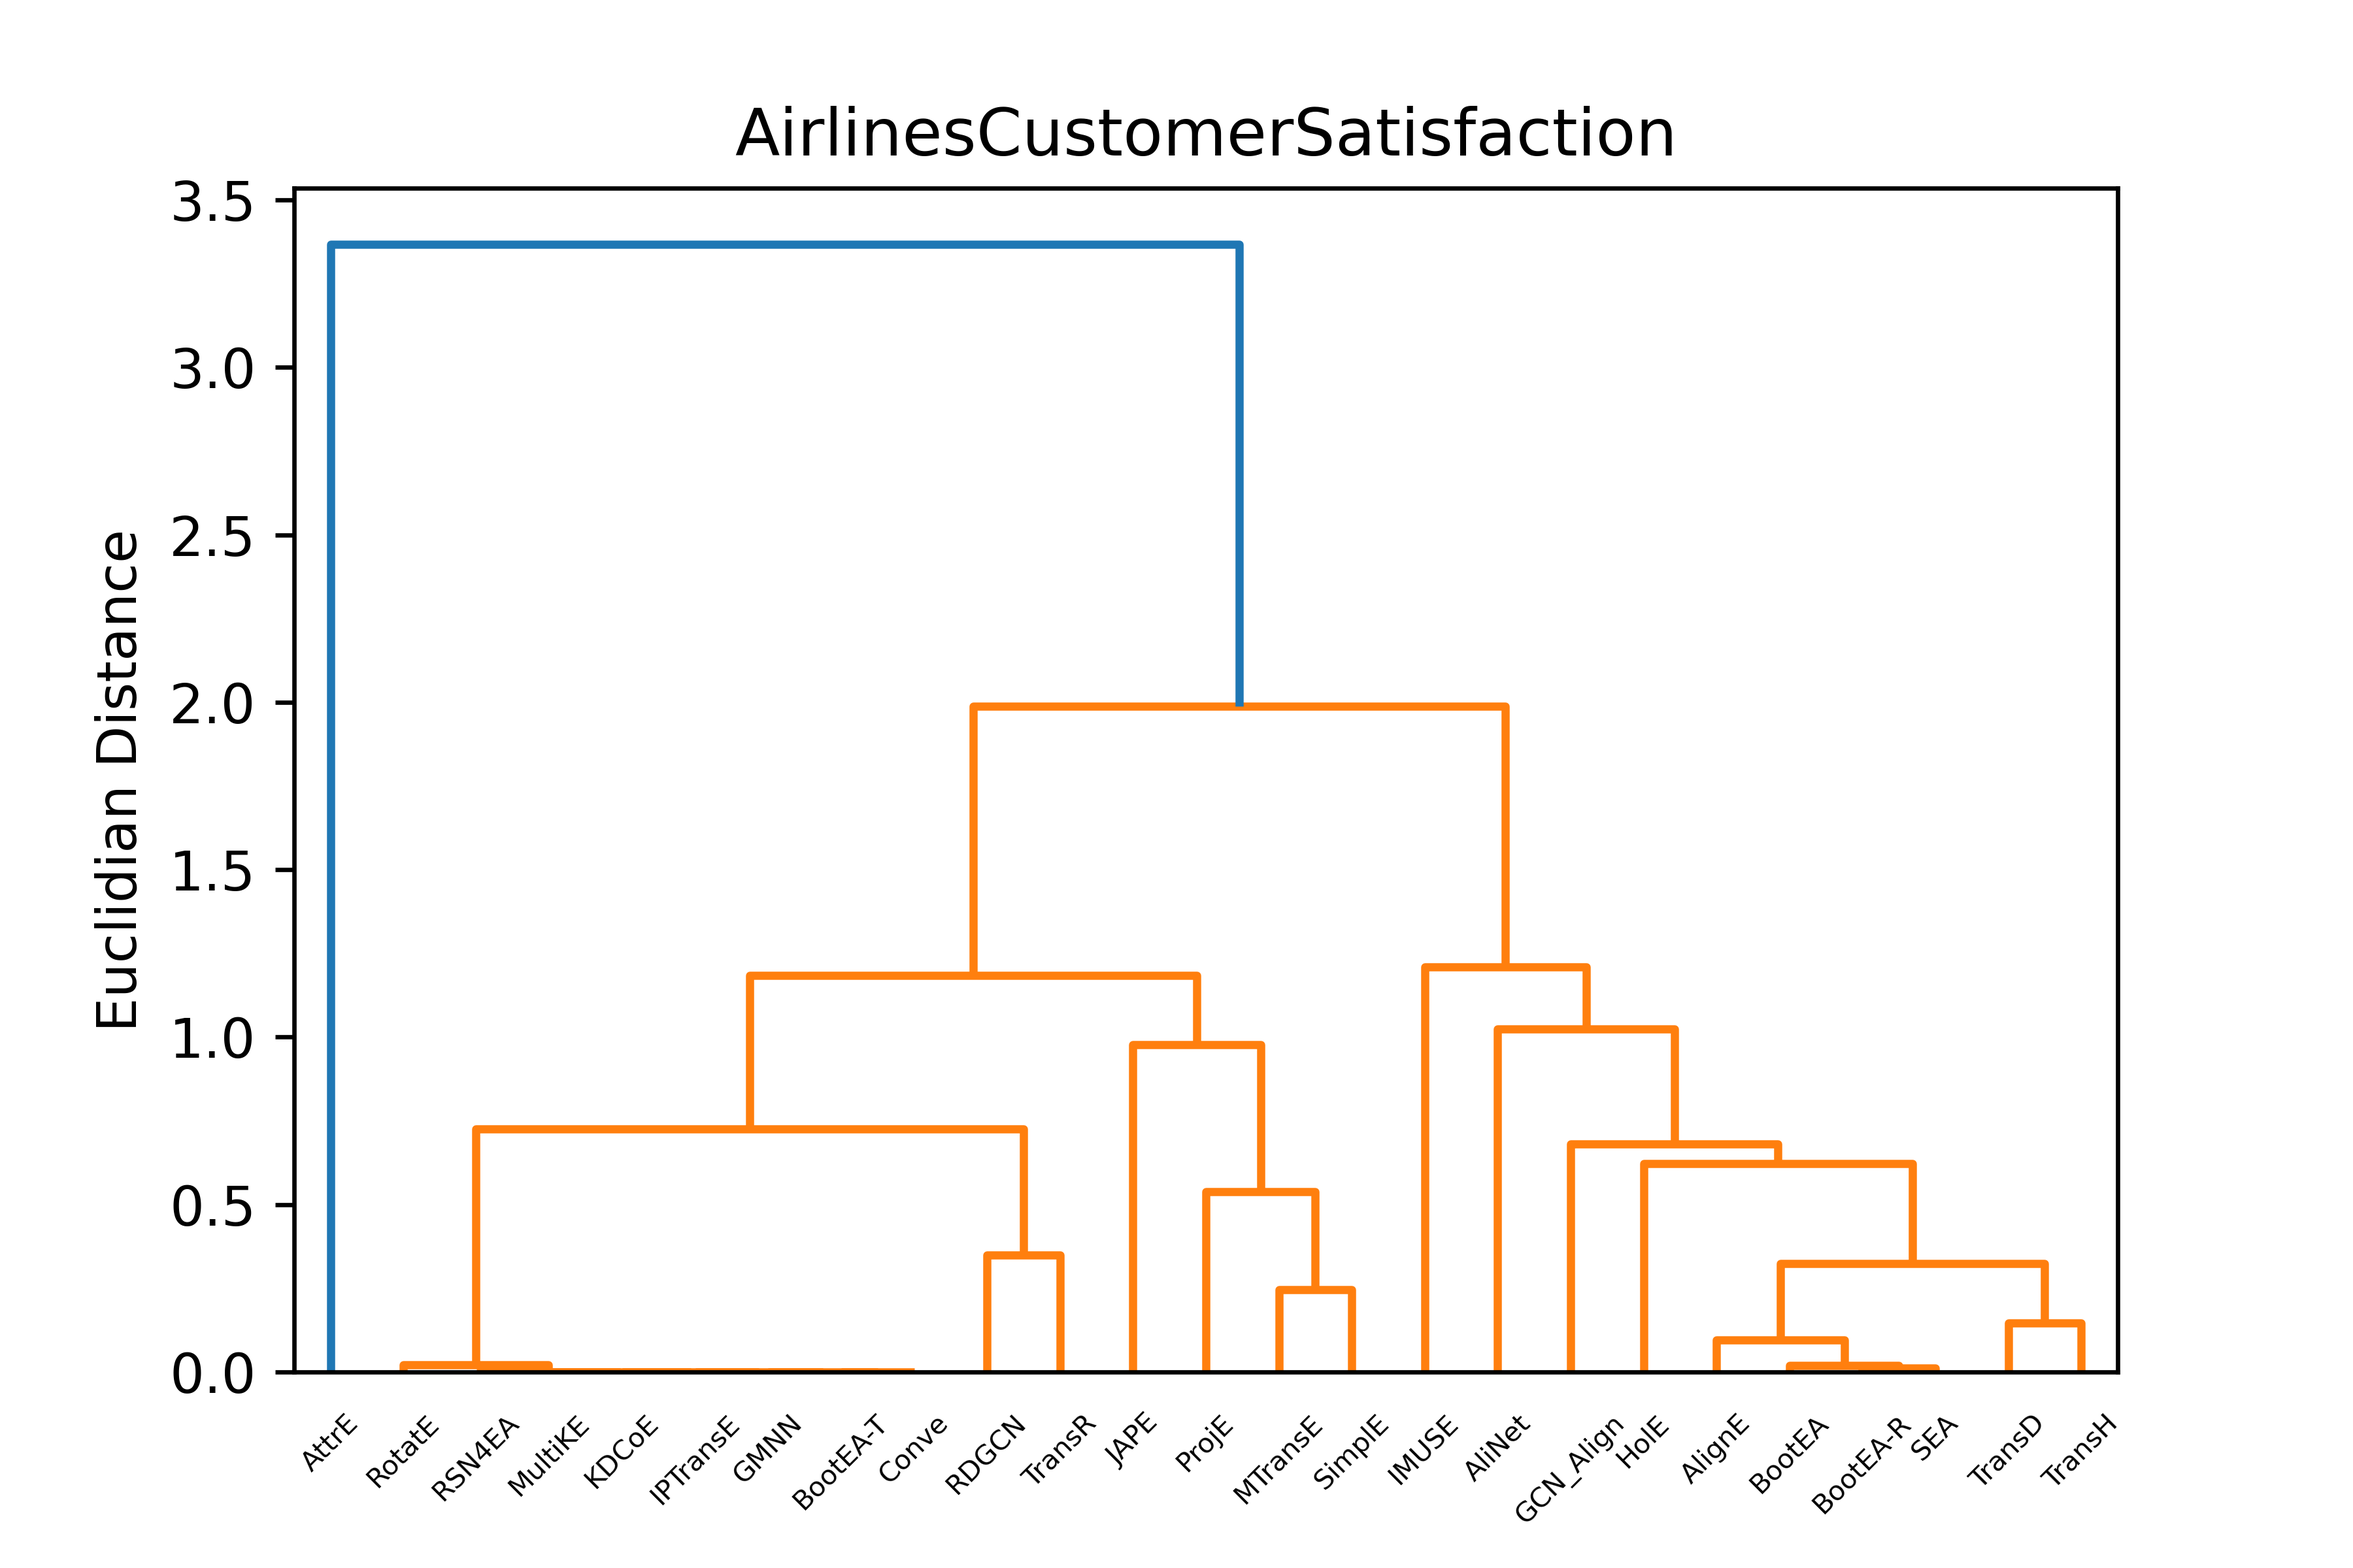
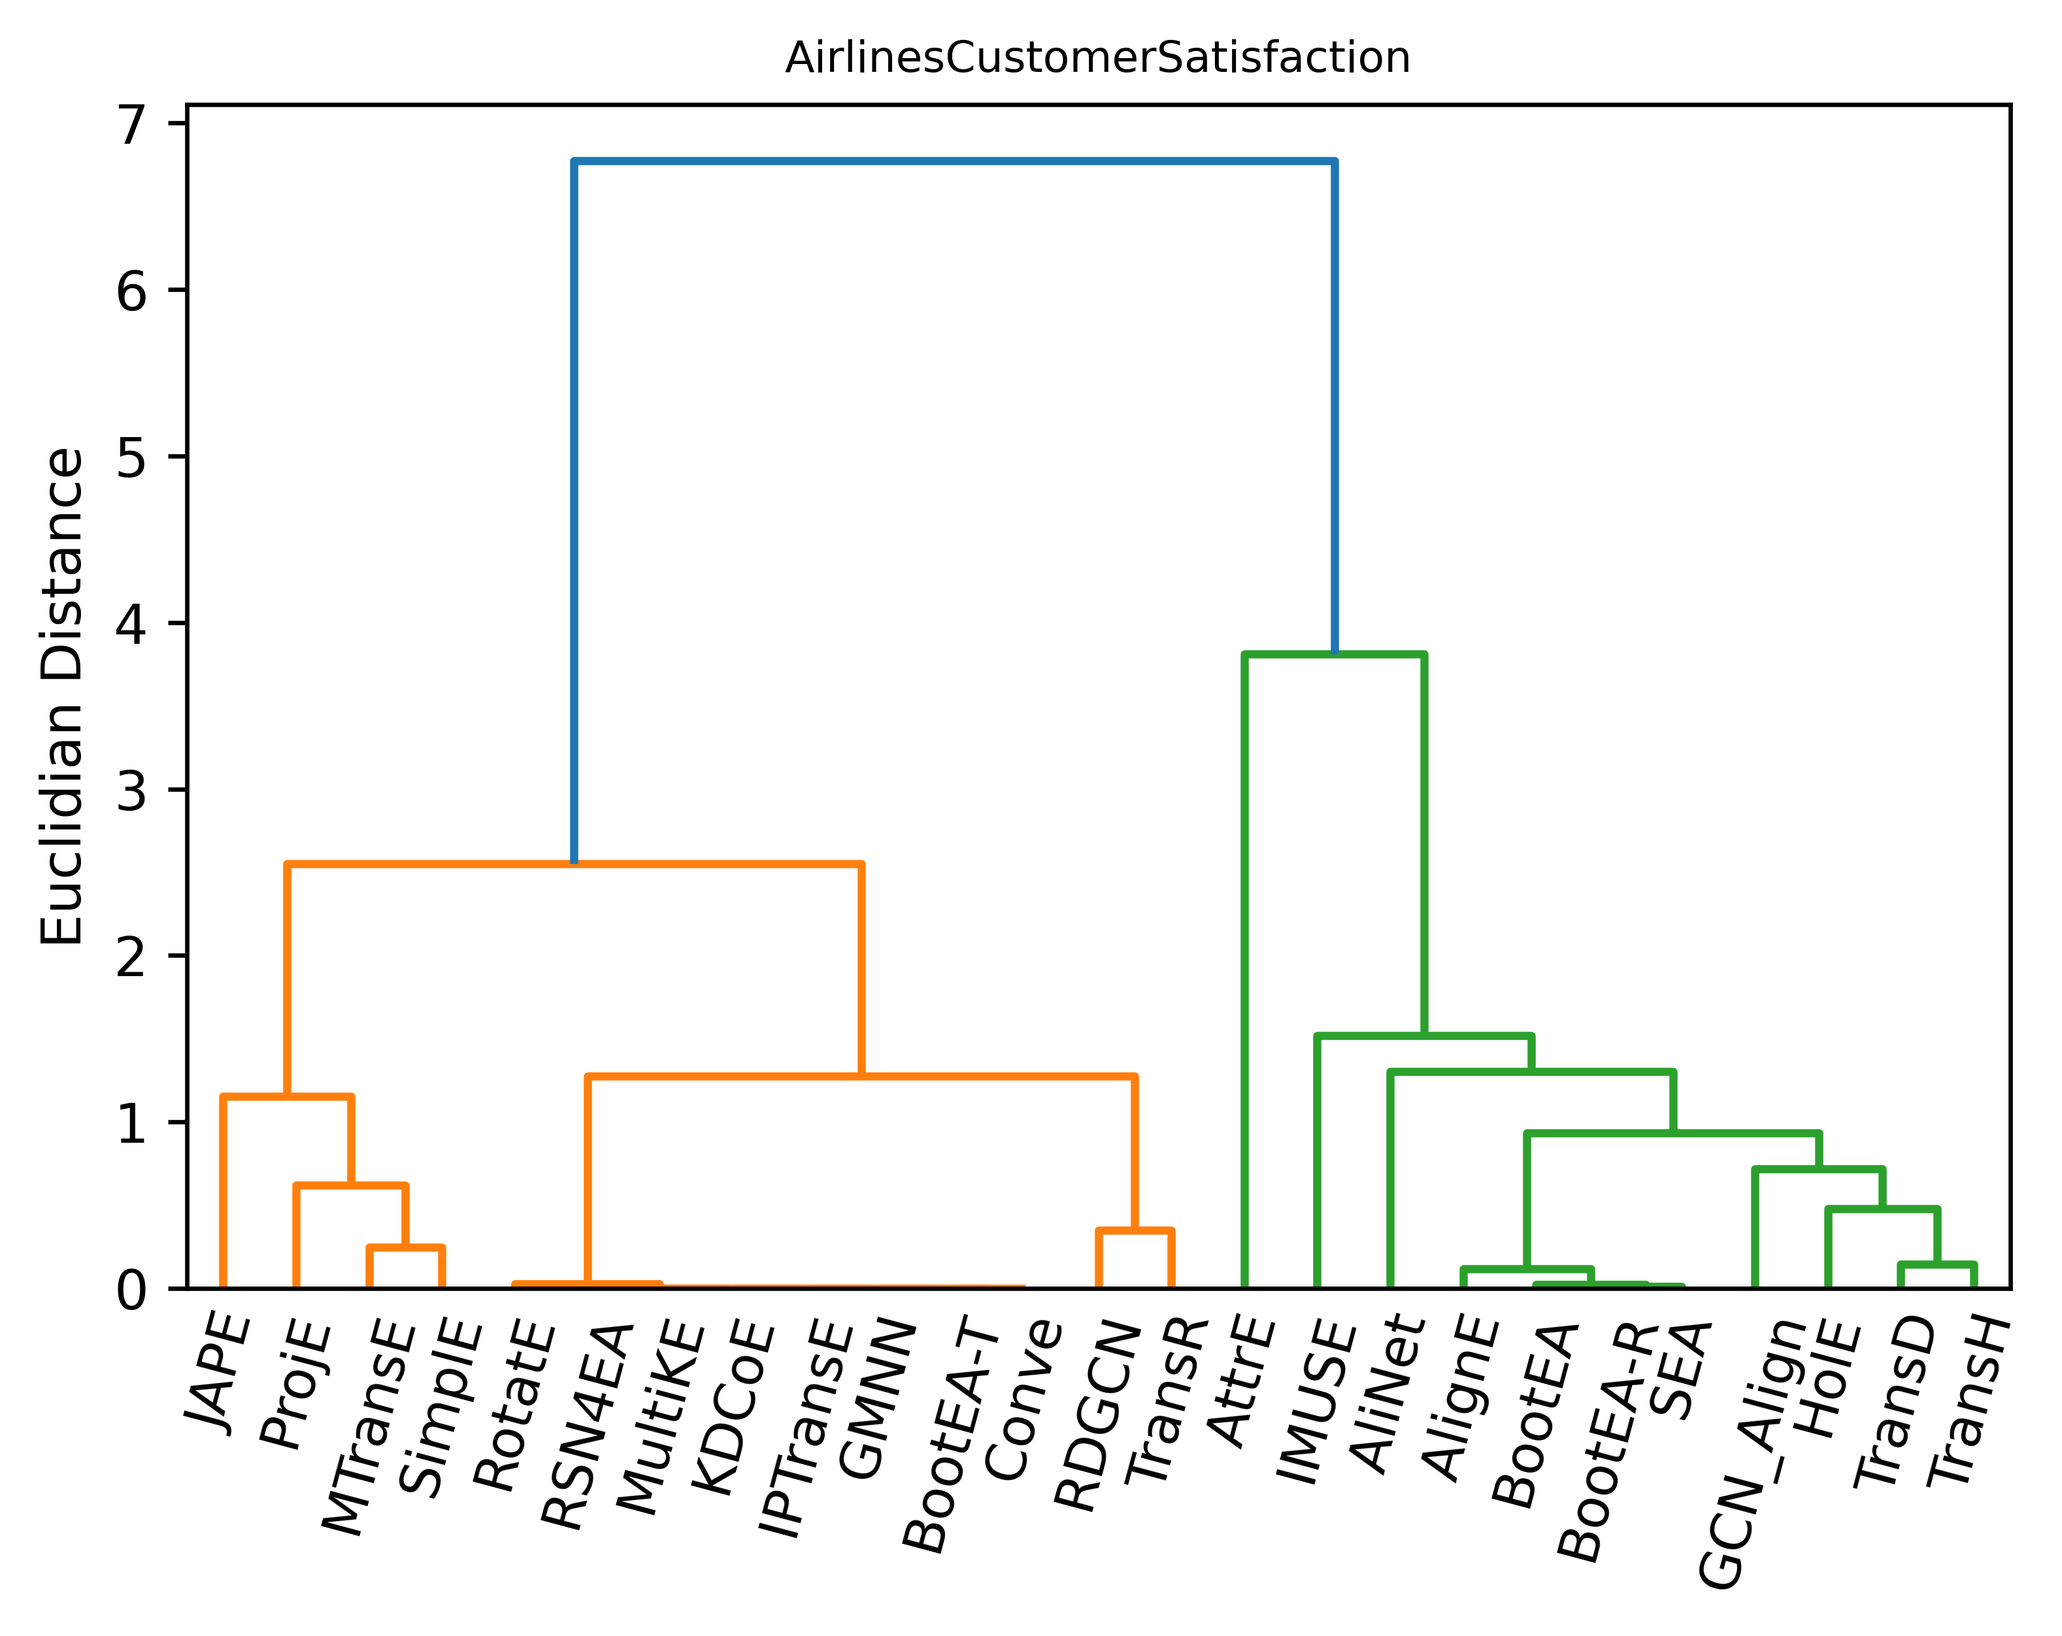
Update Figures AirlinesCustomerSatisfaction

Changed region(s): [[0.0, 0.0312, 0.994, 0.9688]]

diff --git a/AirlinesCustomerSatisfaction/AirlinesCustomerSatisfaction.md b/AirlinesCustomerSatisfaction/AirlinesCustomerSatisfaction.md
@@ -317,17 +317,21 @@
 
 ## Results
 
+<figcaption><strong>Figure Methods Boxplot.</strong> Boxplot of the OpenEA methods according to the Hits@1 metric of the 6 pairwise comparisons of the KGs generated from the Airlines Customer Satisfaction dataset. The orange solid line represents the median and the red diamond the mean of the experiments that did not lead to an error. The number of experiments without error is shown in brackets next to the name of the method. BootEA-TransH, ConvE, KDCoE and MultiKE are not shown because their error rate is equal to 1 for all datasets.</figcaption>
+
 ![Modules Boxplot Airlines Customer Satisfaction](./Figures/boxplotApproaches.png "Modules Boxplot Airlines Customer Satisfaction")
+
+<figcaption><strong>Figure Methods Clustering.</strong> Hierarchical clustering (Ward algorithm) of 25 OpenEA methods according to the 5 metrics for the 6 pairwise comparisons of the KGs generated from the Airlines Customer Satisfaction dataset.</figcaption>
 
 ![Modules Clusters Airlines Customer Satisfaction](./Figures/clusterApproaches.png "Modules Clusters Brazilian Airlines Customer Satisfaction")
 
+<figcaption><strong>Figure Experiments Boxplot.</strong> Boxplot of the 6 types of pairwise comparison experiments of KGs based on the Hits@1 score obtained by the 25 methods carried out in the Airlines Customer Satisfaction dataset. The orange solid line represents the median and the red diamond the mean of the experiments that did not lead to an error. The number of modules that did not generate an error is shown in brackets under the name of the experiment represented.</figcaption>
+
 ![Datasets Boxplot Airlines Customer Satisfaction](./Figures/boxplotDatasetsPairs.png "Datasets Boxplot Airlines Customer Satisfaction")
 
+<figcaption><strong>Figure Experiments Clustering.</strong> Hierarchical clustering, with method Ward, of the 6 types of pairwise comparison experiments of KG, according to the 5 metrics, with all the values scaled to the range [0,1], of the 25 (at most) OpenEA modules carried out in the Airlines Customer Satisfaction dataset.</figcaption>
+
 ![Datasets Clusters Airlines Customer Satisfaction](./Figures/clusterDataset.png "Datasets Clusters Airlines Customer Satisfaction")
-
-![Datasets Cluster AttrE-BootEA Airlines Customer Satisfaction](./Figures/clusterDatasetAttBoot.png "Datasets Cluster AttrE-BootEA Airlines Customer Satisfaction")
-
-![BarChart Comparisons Modules Airlines Customer Satisfaction](./Figures/barComparison.png "BarChart Comparisons Modules Airlines Customer Satisfaction")
 
 ## Merged methods
 

diff --git a/README.md b/README.md
@@ -22,7 +22,7 @@ The datasets were represented in RDF using different ontologies, which have the 
 
 * Materials (M) and Transactions (T), dataset-independent ontologies. These ontologies, which are called BASF ontologies or application ontologies (AP), was previously developed by BASF SE domain experts for the modeling of business entities related to commercial activity.
 
-<figcaption><strong>Figura 1.</strong> Method Overview.</figcaption>
+<figcaption><strong>Figure 1.</strong> Method Overview.</figcaption>
 
 ![Overview Figure](./FiguresAndTables/graphicalAbstract.png "Overview Figure")
 
@@ -34,7 +34,7 @@ Each experiment consists of finding the alignment between two KGs generated from
 
 See the [instructions](./Scripts/README.md) for reproducing the experiments.
 
-<figcaption><strong>Figura 2.</strong> Entity Alignment OpenEA Pipeline .</figcaption>
+<figcaption><strong>Figure 2.</strong> Entity Alignment OpenEA Pipeline .</figcaption>
 
 ![Entity Alignment OpenEA Pipeline](./FiguresAndTables/graphicalAlignment-pipeline.png "Entity Alignment OpenEA Pipeline")
 
@@ -80,7 +80,7 @@ The detailed results by dataset can be accessed by clicking on the name of the d
 
 Next, we present some tables and figures that summarize the results obtained in terms of Hits@1, runtime and errors 
 
-<figcaption><strong>Figura 3.</strong> Distribution of OpenEA methods according to the average Hits@1 score obtained between datasets and the average execution time obtained between datasets, scaled between 0 and 1 for each experiment. The average percentage of failed experiments between datasets is included in the label. Modules with an error rate of 1 are not shown.</figcaption>
+<figcaption><strong>Figure 3.</strong> Distribution of OpenEA methods according to the average Hits@1 score obtained between datasets and the average execution time obtained between datasets, scaled between 0 and 1 for each experiment. The average percentage of failed experiments between datasets is included in the label. Modules with an error rate of 1 are not shown.</figcaption>
 
 ![Modules distribution by averages](./FiguresAndTables/plotMeansModules.png "Modules distribution by averages")
 
